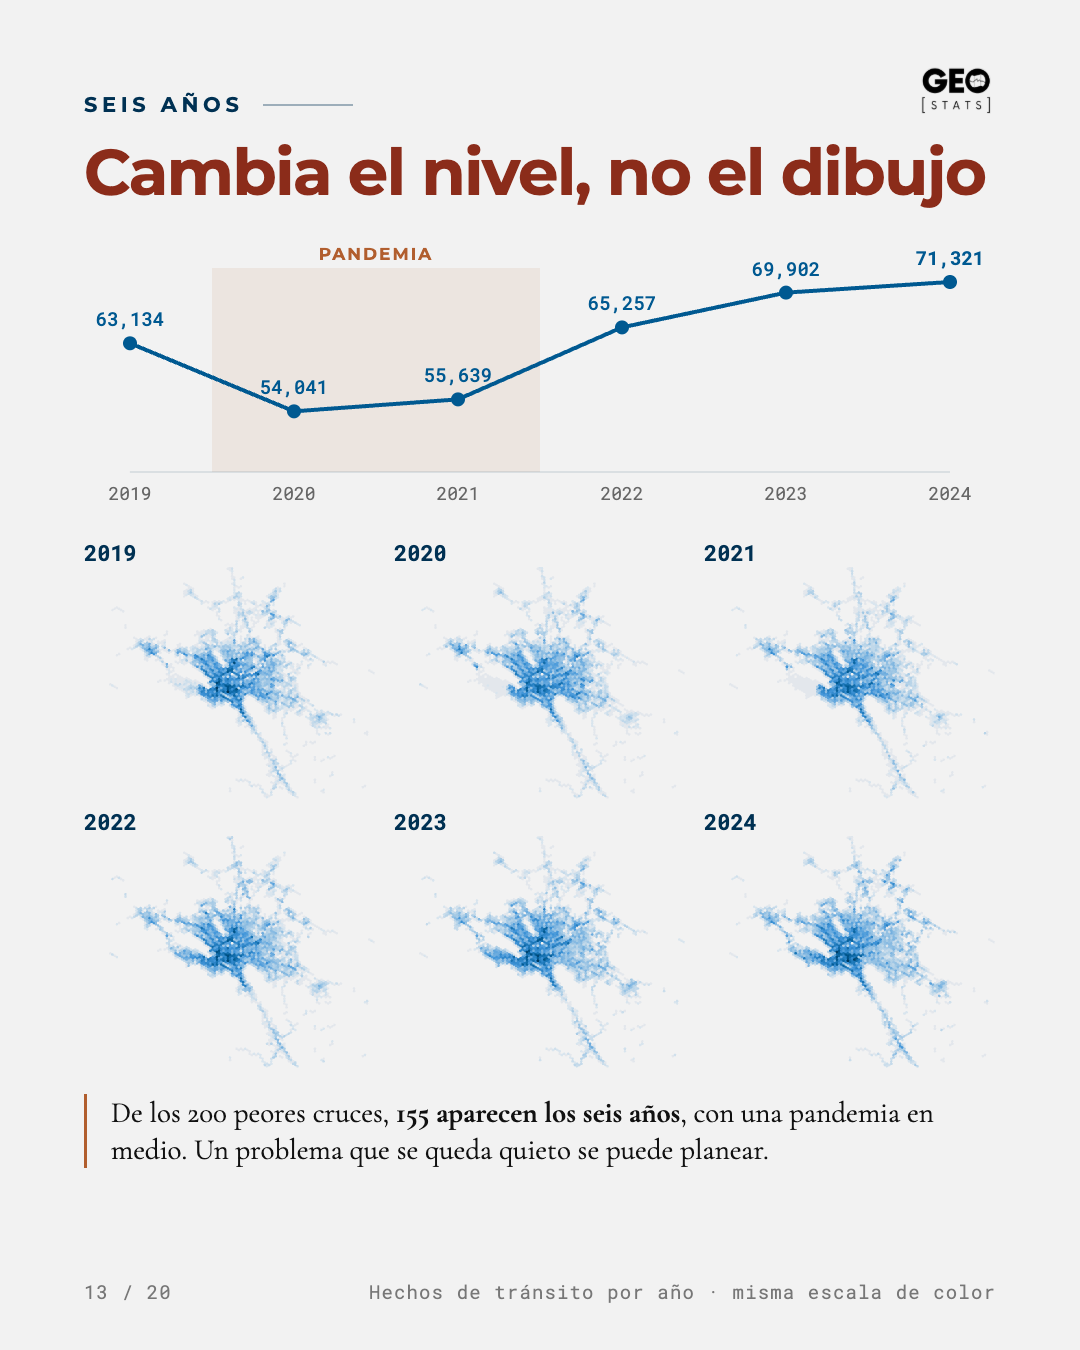
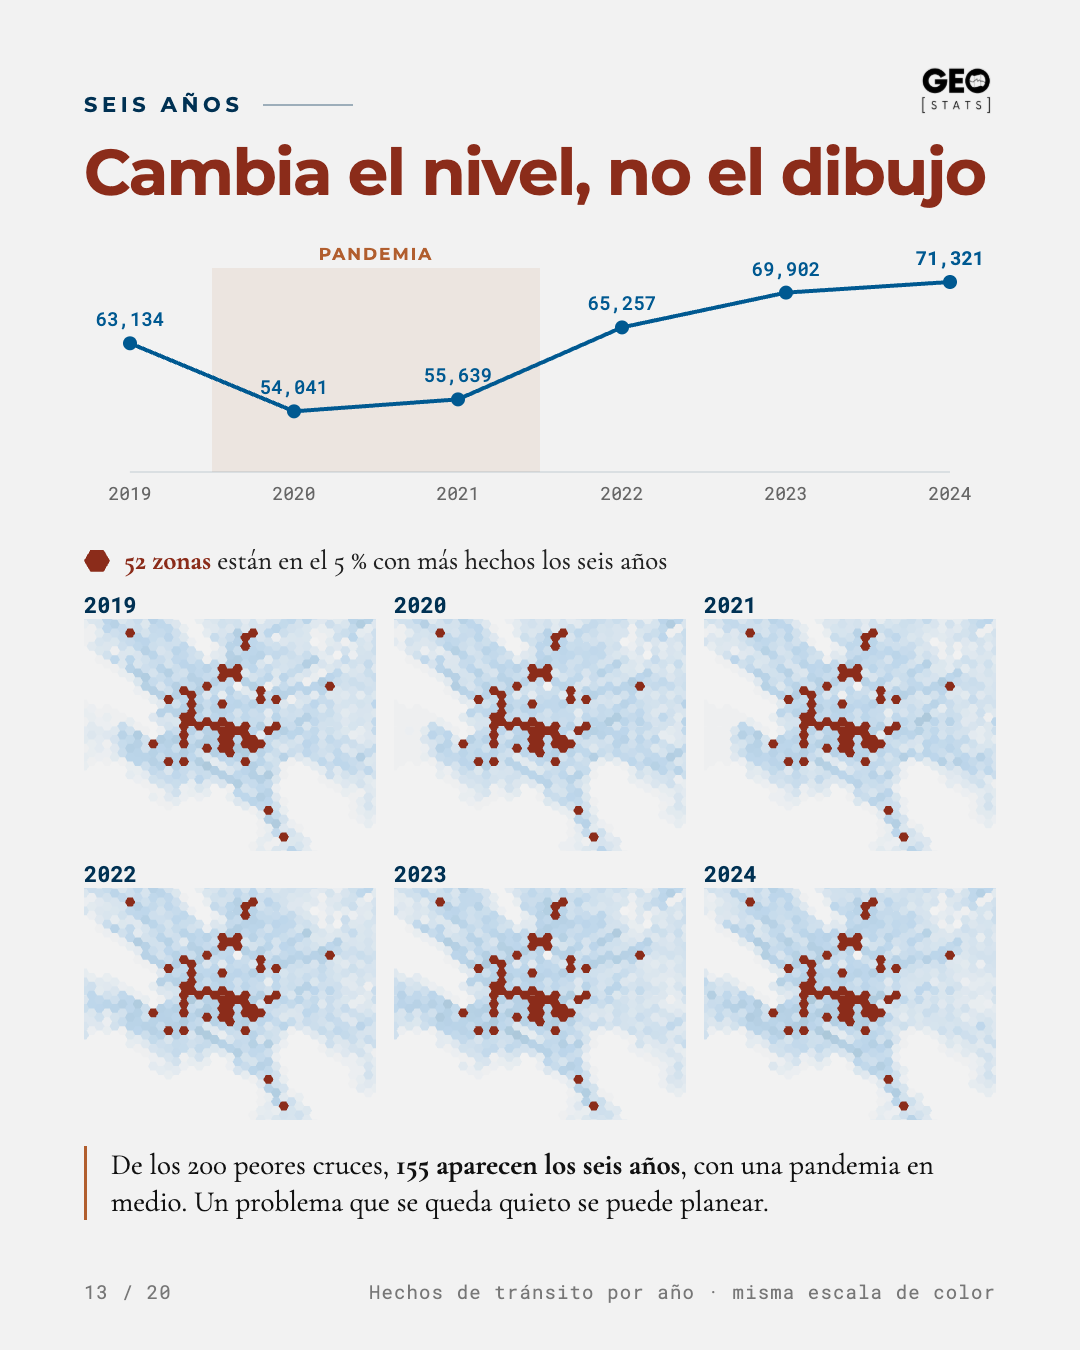
feat(publicacion): resalta las zonas fijas del 5 % en la tendencia
Las láminas de tendencia y pronóstico decían que el problema se queda
quieto, pero los mapas por año no dejaban ver cuáles son las zonas que
se repiten. Ahora las zonas que están en el 5 % con más hechos los seis
años van en ladrillo sobre el resto atenuado, con un acercamiento al
núcleo para que no se vean del tamaño de un punto.

También se simplifica el título del pronóstico y se marca la cifra de
74 mil como aproximada, en lugar de dar un margen que no se explicaba.
Se cambia "info" por "data" en la lámina 17 y en el README, y se
regeneran las imágenes.

Changed region(s): [[0.0611, 0.4044, 0.9472, 0.9022]]

diff --git a/publicacion/plantilla.html b/publicacion/plantilla.html
@@ -310,6 +310,7 @@ tr.cima td.n{color:var(--ladrillo); font-weight:700}
   <h2>Cambia el nivel, no el dibujo</h2>
   <div class="marco" style="gap:26px;margin-top:26px">
     <div id="gTendencia"></div>
+    <div id="fijas" class="pie" style="display:flex;align-items:center;gap:14px;margin-bottom:-14px"></div>
     <div id="anios" style="display:grid;grid-template-columns:repeat(3,1fr);gap:8px 18px"></div>
     <div class="dato"><div class="txt">De los 200 peores cruces, <b>155 aparecen los seis años</b>, con una pandemia en medio. Un problema que se queda quieto se puede planear.</div></div>
   </div>
@@ -319,12 +320,12 @@ tr.cima td.n{color:var(--ladrillo); font-weight:700}
 <!-- ========================================== 14 · PRONÓSTICO 2027 ===== -->
 <section class="ig" data-archivo="14_pronostico_2027">
   <div class="ceja">Pronóstico · 2027</div>
-  <h2>Si nada cambia, 74 mil hechos de tránsito en 2027</h2>
+  <h2>Si nada cambia…</h2>
   <div class="marco" style="gap:22px;margin-top:20px">
     <div class="fila" style="gap:20px;align-items:center">
       <div style="flex:0 0 430px;display:flex;flex-direction:column;gap:26px">
-        <div><div class="xl" style="font-size:132px">74<span style="font-size:.5em;letter-spacing:-.02em"> mil</span></div>
-          <div class="pie">hechos esperados en la Zona Metropolitana, con un margen del 3 %</div></div>
+        <div><div class="xl" style="font-size:132px"><span style="font-size:.62em;vertical-align:.12em">≈</span>74<span style="font-size:.5em;letter-spacing:-.02em"> mil</span></div>
+          <div class="pie">hechos de tránsito esperados en la Zona Metropolitana en 2027</div></div>
         <div class="dato"><div class="txt"><b>42.9 %</b> caerá en el 5 % de zonas con más riesgo, y 112 de ellas ya están identificadas.</div></div>
       </div>
       <div class="mapa" id="mP2027" style="flex:1;height:540px;margin-right:-60px"></div>
@@ -358,7 +359,7 @@ tr.cima td.n{color:var(--ladrillo); font-weight:700}
   <div class="velo" style="background:linear-gradient(180deg,rgba(0,49,83,0) 0%,rgba(0,49,83,.25) 28%,rgba(0,49,83,.9) 48%,#003153 58%,#003153 100%)"></div>
   <div style="margin-top:auto;position:relative;z-index:3">
     <div class="ceja">No nos creas: compruébalo</div>
-    <h1 style="font-size:112px">Revisa la info por ti mismo</h1>
+    <h1 style="font-size:112px">Revisa la data por ti mismo</h1>
     <p class="entrada" style="max-width:none">Todo lo que viste es público. Escanea los códigos de las siguientes láminas:</p>
     <div style="display:flex;flex-direction:column;gap:18px;margin-top:34px">
       <div class="pregunta" style="grid-template-columns:76px 1fr"><div class="np">18</div><div class="q" style="font-size:36px">El visor: busca tu cruce</div></div>
@@ -464,7 +465,8 @@ tr.cima td.n{color:var(--ladrillo); font-weight:700}
    * Un mapa hexagonal.
    * o.capa, o.rampa ('fria' | 'calida'), o.noche, o.tope (común entre mapas),
    * o.caja (recorte del viewBox), o.ajuste ('meet' | 'slice'), o.vias, o.cruces,
-   * o.top10, o.corredores, o.tenue (opacidad de las celdas)
+   * o.top10, o.corredores, o.tenue (opacidad de las celdas),
+   * o.resalte (celdas, por índice, que van en ladrillo sobre el resto atenuado)
    */
   function mapa(cont, o){
     var cj = o.caja || caja99;
@@ -478,10 +480,17 @@ tr.cima td.n{color:var(--ladrillo); font-weight:700}
     var g = svgEl("g", {"fill-opacity": o.tenue || 1});
     for (var k = 0; k < N; k++){
       var t = v ? (lineal ? v[k] / tope : Math.pow(v[k] / tope, 0.42)) : 0;
-      g.appendChild(svgEl("use", {href: "#hx", x: xs[k], y: Y(ys[k]),
-        fill: (!v || v[k] === 0) ? vacia : mezcla(rampa, t)}));
+      var a = {href: "#hx", x: xs[k], y: Y(ys[k]), fill: (!v || v[k] === 0) ? vacia : mezcla(rampa, t)};
+      if (o.resalte) a["fill-opacity"] = .3;
+      g.appendChild(svgEl("use", a));
     }
     s.appendChild(g);
+    // las celdas resaltadas van encima, en un grupo propio, para que ninguna vecina las tape
+    if (o.resalte){
+      var gr = svgEl("g", {fill: "#8B2C1A"});
+      o.resalte.forEach(function(k){ gr.appendChild(svgEl("use", {href: "#hx", x: xs[k], y: Y(ys[k])})); });
+      s.appendChild(gr);
+    }
     if (o.vias !== false){
       var gv = svgEl("g", {fill: "none", stroke: o.noche ? "#fff" : "#2C2C2C", "stroke-linecap": "round", "stroke-linejoin": "round"});
       (D.vias || []).forEach(function(w){
@@ -795,6 +804,21 @@ tr.cima td.n{color:var(--ladrillo); font-weight:700}
     // 2020 se vería igual de intenso que 2024
     var tope = 0;
     for (var a = 2019; a <= 2024; a++) D.capas["a" + a].forEach(function(x){ if (x > tope) tope = x; });
+    // el resalte: las zonas que están en el 5 % con más hechos los seis años
+    // (el 5 % se cuenta, cada año, sobre las zonas con al menos un hecho)
+    var veces = new Array(N).fill(0), corte = 0;
+    for (a = 2019; a <= 2024; a++){
+      var cap = D.capas["a" + a], orden = cap.filter(function(x){ return x > 0; }).sort(function(p, q){ return q - p; });
+      corte = Math.round(orden.length * 0.05);
+      var umbral = orden[corte - 1];
+      cap.forEach(function(x, k){ if (x >= umbral) veces[k]++; });
+    }
+    var fijas = [];
+    veces.forEach(function(n, k){ if (n === 6) fijas.push(k); });
+    $("fijas").innerHTML = '<span style="flex:0 0 26px;height:22px;background:#8B2C1A;clip-path:polygon(25% 0,75% 0,100% 50%,75% 100%,25% 100%,0 50%)"></span>' +
+      "<span><b style=\"color:#8B2C1A\">" + fijas.length + " zonas</b> están en el 5 % con más hechos los seis años</span>";
+    // acercar al núcleo: el encuadre de la ZMM entera las deja del tamaño de un punto
+    var acerca = cajaDe(fijas.map(function(k){ return [xs[k], ys[k]]; }), 9);
     for (a = 2019; a <= 2024; a++){
       var c = document.createElement("div");
       c.innerHTML = '<div style="font-family:var(--cifra);font-weight:700;font-size:22px;color:var(--prusia)">' + a + "</div>";
@@ -802,7 +826,7 @@ tr.cima td.n{color:var(--ladrillo); font-weight:700}
       mm.className = "mapa"; mm.style.height = "232px";
       c.appendChild(mm);
       $("anios").appendChild(c);
-      mapa(mm, {capa: "a" + a, tope: tope, vias: false});
+      mapa(mm, {capa: "a" + a, tope: tope, vias: false, resalte: fijas, caja: acerca, ajuste: "slice"});
     }
   })();
 

diff --git a/publicacion/README.md b/publicacion/README.md
@@ -21,7 +21,7 @@ la 15 la ponen los autores y la numeración ya le deja su lugar:
 | 14 | Pronóstico 2027 y municipios con más riesgo | `14_pronostico_2027.png` |
 | 15 | Foto de la app | **la proveen los autores** |
 | 16 | Reflexiones | `16_reflexiones.png` |
-| 17 | Transición: revisa la info por ti mismo | `17_revisalo_tu.png` |
+| 17 | Transición: revisa la data por ti mismo | `17_revisalo_tu.png` |
 | 18 | QR del visor | `18_qr_visor.png` |
 | 19 | QR del repositorio | `19_qr_repositorio.png` |
 | 20 | QR de la presentación | `20_qr_presentacion.png` |
